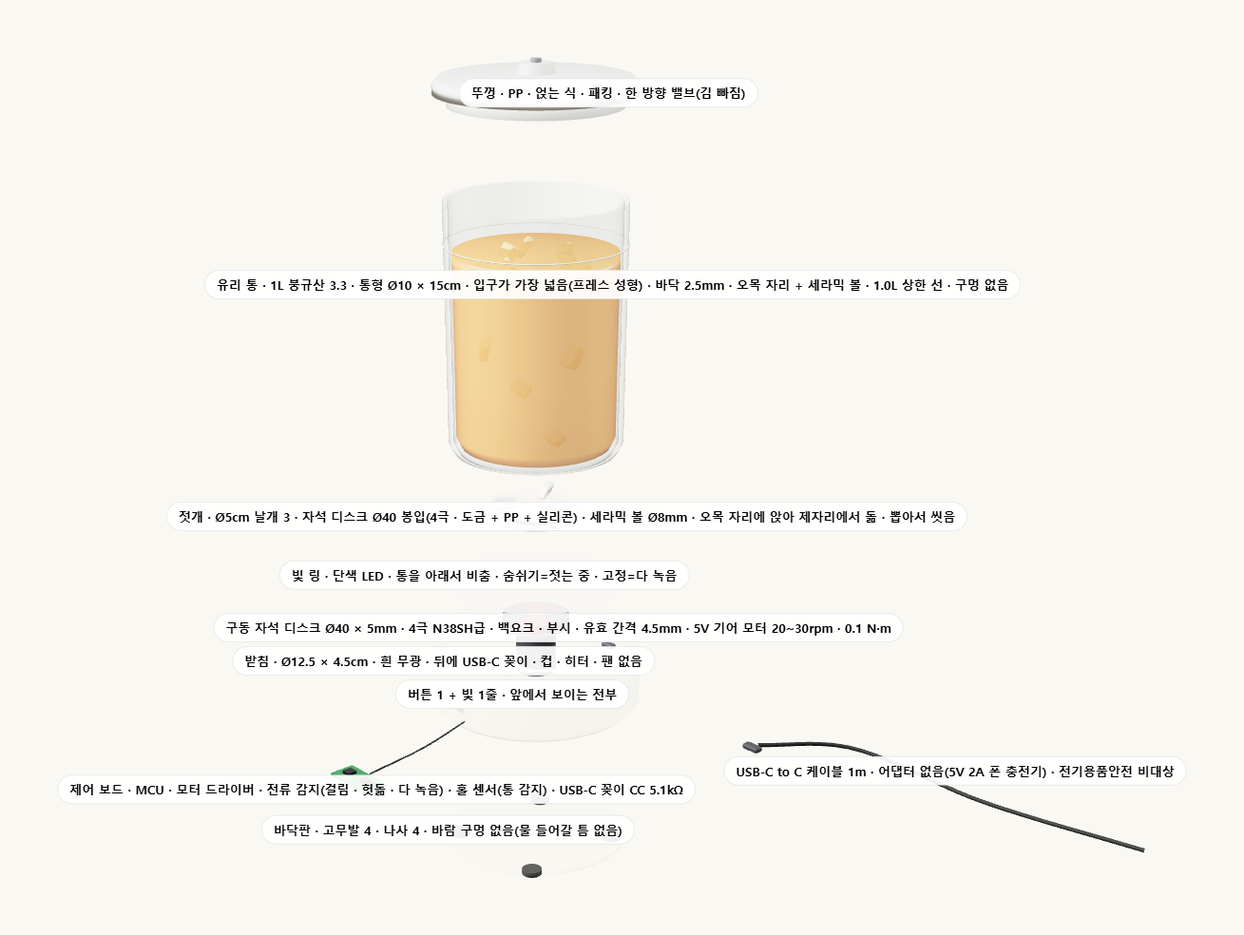
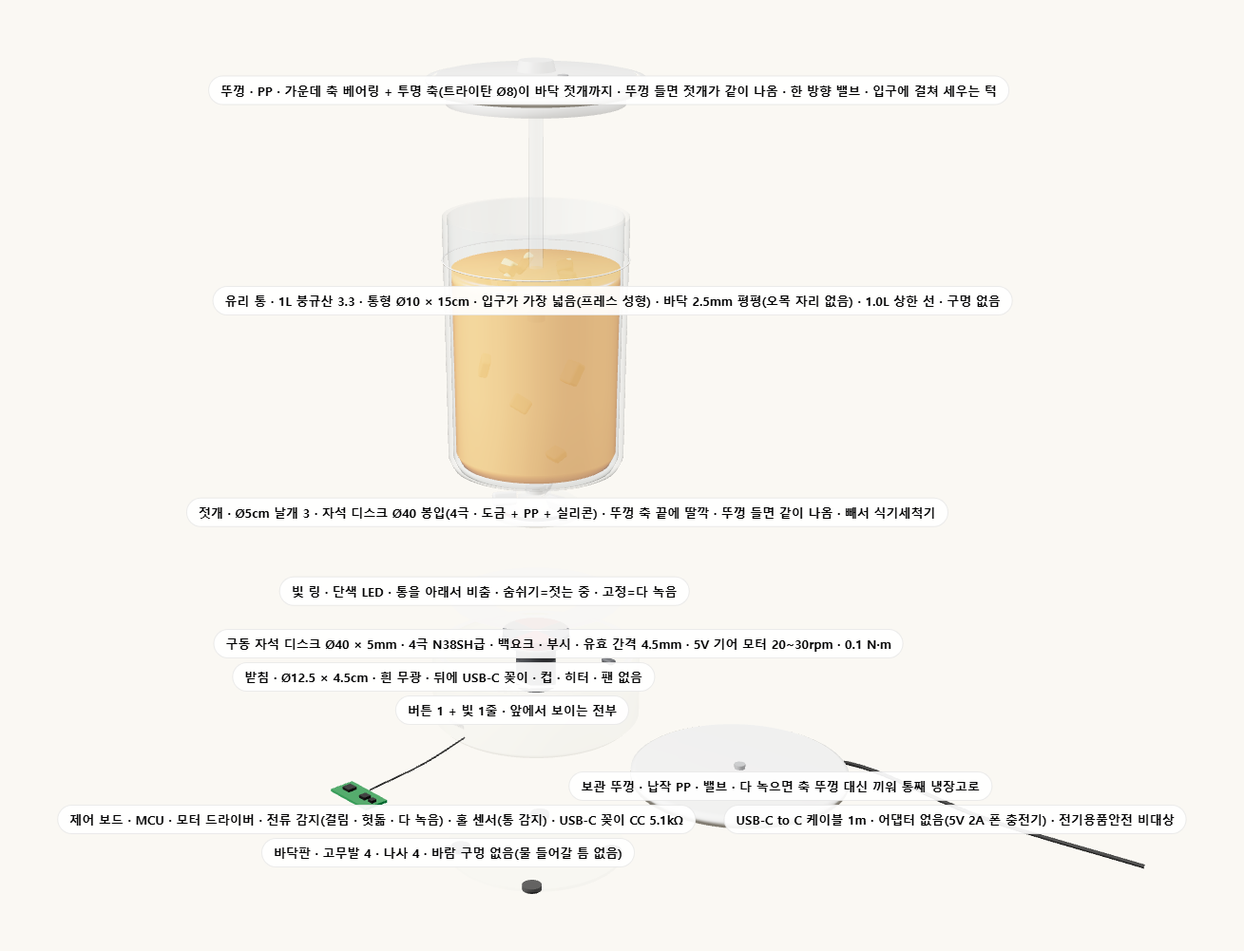
젓개를 뚜껑 축에 매닮(11/17 준보 「뚜껑에 달아 빼기 쉽게 · 세척 쉽게」, 두팔 위임): 3D 라이트 — 뚜껑 가운데 베어링 + 투명 축(트라이탄 Ø8) + 축 끝 딸깍 젓개 · 유리 바닥 평평(오목 자리 · 세라믹 볼 삭제) · 입구에 걸쳐 세우는 턱 · 보관 뚜껑(납작 · 밸브) 부품 11 · 단면도 section-lite.svg · 구조 칸 · 사양 표 · 라이트 2차 상자 문구 · 캡처 7장 재생성

diff --git a/index.html b/index.html
@@ -536,7 +536,7 @@ section h2 .ln{display:block;overflow:hidden}section h2 .ln span{display:block;w
     <p class="note rv" style="border-left:3px solid #1f8a5b;padding-left:10px"><b>읽는 법(11/17):</b> 이 칸의 검토 ①~⑯은 <b>2L · 데우기/식히기 이전 안</b> 기준입니다. 기본안 「라이트」(1L · 젓기만)는 자석 토크 필요치가 0.5 → 0.1 N·m, 유리 바닥 창은 같고, 열 · 결로 · 펠티어 · 히터 항목은 해당 없음이라 <b>모두 더 여유 있는 쪽</b>입니다. 1L 전용 수치는 1주차 벤치 뒤 갱신합니다(<a href="#lite2">라이트 검토</a>). 단면도와 3D는 라이트 A 기준으로 다시 그렸고, 2L 단면도는 접힌 칸에 있습니다.</p>
     <p class="lead2 rv">그림이 예쁜 것과 기계가 도는 것은 다릅니다. 힘 · 열 · 물 · 유리 · 안전을 하나씩 숫자로 따졌습니다. 아래 값은 설계 계산이며 <b>1단계 벤치에서 실측으로 바꿉니다.</b> 1차 검토(①~⑩) 뒤 사용 기간별 불량을 막는 보완안을 냈고, 그 보완안을 다시 의심해 <b>자석 · 젓기 · 열 · 유리 네 가지를 시뮬레이션으로 반복</b>했습니다(⑪~⑯: 공차 몬테카를로 5,000회 · 젓기 무작위 600회 · 1년 8개 달 열 계산). 바뀐 것 다섯: <b>① 자석 = 다극 링 1개 Ø70 · 간격 5.5mm</b> ② <b>유리 바닥 = 오목 자리 + 세라믹 볼</b> ③ <b>헛돎 판정 = 토크 방향 뒤집힘</b> ④ <b>결로 기준 = 컵 밀봉 + 유리 벽</b>, 여름 약속은 실온 −3~5°C ⑤ <b>스러스트 베어링 · 온도 퓨즈 · 통 감지 방식</b>. <b>11/17: 식히기(펠티어)를 기본형에서 빼서, 아래 표의 결로 · 극 전환 · 식혀 두기 줄은 「프로」 검토용으로만 남습니다.</b></p>
     <div class="duo rv" style="margin-top:24px"><div class="ph tilt" style="aspect-ratio:3/2"><img src="img/photo_cutaway.jpg" alt="과일청 메이커 단면 컨셉 이미지 · 유리 바닥 돌기 · 실리콘 교반 날개(자석 6개) · 하부 자석 디스크 · 슬림 기어모터 · 알루미늄 컵 · 펠티어 모듈"><span class="mono">04 / 단면 컨셉 (AI 이미지 · 2L 이전 안 · 비례 확인용)</span></div><div class="box" style="margin-top:0"><h3>신박한 점 하나 — 통에 구멍 없이 자석으로 젓습니다</h3><ul><li>유리 통 바닥에는 구멍·축·실링이 <b>없습니다.</b> 그래서 새지 않고, 통째 들어 냉장고로 갑니다.</li><li>바닥 가운데 오목 자리에 <b>실리콘 젓개(자석 디스크 Ø40 봉입 · 세라믹 볼 받침)</b>를 얹고, 유리 너머(유효 간격 4.5mm) 아래의 <b>자석 디스크</b>가 돌립니다(2L 이전 안은 링 자석 Ø70 · 5.5mm).</li><li>씻을 것은 뚜껑·유리 통·젓개 셋. 젓개는 뽑아서 식기세척기에 넣습니다. 축이 있는 블렌더·제빵기 통과 다른 점입니다.</li><li>힘이 모자라면(라이트 벤치 0.1 N·m 미달) 그때 바닥 축 직결로 바꿉니다 — 지금은 자석이 기본안입니다.</li></ul></div></div>
-    <div class="figure rv"><img src="img/section-lite.svg" alt="라이트 A 단면도 · 1L 유리 통 바닥과 받침 가운데 · 젓개 · 자석 디스크 Ø40 · 5V 기어 모터 · 보드 · USB-C 꽂이"><small>단면 · 라이트 A(1L) · 15개 부품의 자리와 치수. 가운데는 <b>오목 자리 + 세라믹 볼</b>, 젓개 속은 <b>자석 디스크 Ø40(4극)</b>, 아래는 <b>디스크 + 부시 + 5V 기어 모터</b>. 컵 · 히터 · 펠티어 · 팬 없음. 축척 아님.</small></div>
+    <div class="figure rv"><img src="img/section-lite.svg" alt="라이트 A 단면도 · 1L 유리 통 바닥과 받침 가운데 · 젓개 · 자석 디스크 Ø40 · 5V 기어 모터 · 보드 · USB-C 꽂이"><small>단면 · 라이트 A(1L) · 15개 부품의 자리와 치수. 가운데는 <b>뚜껑에서 내려온 투명 축 + 딸깍 젓개</b>(바닥 평평), 젓개 속은 <b>자석 디스크 Ø40(4극)</b>, 아래는 <b>디스크 + 부시 + 5V 기어 모터</b>. 컵 · 히터 · 펠티어 · 팬 없음. 축척 아님.</small></div>
     <details class="prev"><summary>이전 안 · 2L 단면도(펠티어 · 알루미늄 컵 · 팬 · 링 자석 Ø70 포함 · 비교용)</summary><div class="figure" style="margin-top:0"><img src="img/section.svg" alt="통 바닥과 받침 가운데 단면도 · 유리 돌기 · 젓개 · 자석 원판 · 모터 · 펠티어 · 팬 · 결로 물받이"><small>단면 · 16개 부품의 자리와 치수(2차 검토 반영 이름표). 가운데는 <b>오목 자리 + 세라믹 볼</b>, 젓개 속은 <b>링 자석 1개</b>, 구동 원판 아래 스러스트 베어링(⑤ · ⑧ · ⑪). 축척 아님.</small></div></details>
     <table class="pl rv">
       <tr><th class="l" style="width:17%">검토 항목</th><th class="l" style="width:38%">계산 · 근거</th><th class="l" style="width:33%">결론 · 설계 반영</th><th>판정</th></tr>
@@ -576,7 +576,7 @@ section h2 .ln{display:block;overflow:hidden}section h2 .ln span{display:block;w
     <p><span data-xv-lite="1">낮은 흰 받침(높이 4.5cm) 위에 1L 유리 통이 바로 앉습니다 — 알루미늄 컵이 없습니다. 자리 바닥의 단색 LED와 통 둘레 빛 테가 통을 아래에서 비춰 청 색이 그대로 보입니다. 아래 단추로 <b>라이트 A(통형) · C(넓적)</b> · 청 색 · 나무 안을 바꾸고, 「이전 안 2L」 단추로 항아리 시안도 볼 수 있습니다.</span><span data-xv-prev="1" hidden>2L 이전 안: 낮은 흰 받침(높이 5cm) 안에 알루미늄 컵이 있고, 거기에 항아리형 유리 통이 앉습니다. 통 둘레 빛 테와 컵 바닥 RGB LED 링이 품목 색으로 통을 아래에서 비춥니다.</span> 스크롤을 내리면 날이 밝고 부품별로 분해됩니다.</p></div>
       <div class="xv-step"><div class="kicker">구조 · 뒷모습</div><h2><span data-xv-lite="1">뒤에는 USB-C 꽂이 하나.</span><span data-xv-prev="1" hidden>열과 선은 뒤로.</span></h2><p><span data-xv-lite="1">뒷면에는 USB-C 꽂이 하나뿐입니다. 팬 · 배기 슬롯 · 어댑터가 없어 바람길이 없습니다. 폰 충전기(5V 2A 이상)에 C-to-C 케이블로 꽂습니다. 앞에서는 버튼 하나와 빛 한 줄만 보입니다.</span><span data-xv-prev="1" hidden>2L 이전 안: 뒷면 슬롯으로 바람이 나갑니다. 바람은 바닥판 슬롯으로 들어와 방열판을 지나 뒤로 나갑니다. 어댑터 선도 뒤 아래로. 앞에서는 아무것도 안 보입니다.</span></p></div>
       <div class="xv-step"><div class="kicker">구조 · 속</div><h2><span data-xv-lite="1">가운데는 자석뿐, 열은 없습니다.</span><span data-xv-prev="1" hidden>가운데는 자석, 둘레는 히터.</span></h2><p><span data-xv-lite="1">통 자리 바닥 바로 아래 자석 디스크 Ø40(4극)가 유효 간격 4.5mm(유리 2.5 + 젓개 덮개 + 띄움 + 틈)로 유리 너머 젓개를 돌립니다. 젓개는 통 바닥 가운데 오목 자리에 세라믹 볼로 얹혀 제자리에서만 돌고, 통에 구멍이 없습니다. 자석이 당기는 힘(약 8N)은 부시가 받습니다. 모터는 5V 기어 모터 20~30rpm, 걸림 · 헛돎 · 다 녹음은 모터 전류로 판정합니다. 히터 · 컵 · 펠티어 · 팬은 없습니다.</span><span data-xv-prev="1" hidden>2L 이전 안: 알루미늄 컵 가운데 Ø76mm는 뚫려 있어 유리 바닥(약 2.5mm)만 남고, 그 바로 아래 다극 링 자석 원판(Ø70)이 유효 간격 5.5mm로 유리 너머 젓개를 돌립니다. 자석끼리 당기는 힘은 원판 아래 스러스트 베어링이 받습니다. 컵 바깥 펠티어가 컵을 데우거나 식히고, 주황색 선은 바람길입니다.</span></p></div>
-      <div class="xv-step"><div class="kicker">구조 · 분해</div><h2><span data-xv-lite="1">부품 10개, 씻는 것은 셋.</span><span data-xv-prev="1" hidden>부품 14개, 씻는 것은 셋.</span></h2><p><span data-xv-lite="1">뚜껑 · 유리 통 · 젓개를 들어서 빼 씻습니다(통·젓개는 식기세척기). 빛 링 · 구동 자석 디스크와 모터 · 보드 · 바닥판은 받침에 남습니다. 센서는 통 감지 홀 센서와 모터 전류 감지뿐입니다. 전원은 USB-C 5V(어댑터 없음 · C-to-C 케이블 1m 동봉).</span><span data-xv-prev="1" hidden>2L 이전 안: 컵·빛 링·펠티어·방열판·팬·구동 자석 원판과 모터·보드·바닥판은 받침에 남습니다. 센서는 NTC(컵) + 통 감지 누름 핀 · 홀 센서 + 72°C 온도 퓨즈. 전원은 12V 외장 어댑터.</span></p></div>
+      <div class="xv-step"><div class="kicker">구조 · 분해</div><h2><span data-xv-lite="1">부품 11개, 씻는 것은 셋 — 뚜껑을 들면 젓개가 따라 나옵니다.</span><span data-xv-prev="1" hidden>부품 14개, 씻는 것은 셋.</span></h2><p><span data-xv-lite="1">뚜껑을 들면 가운데 투명 축(트라이탄 Ø8)에 달린 젓개가 같이 올라옵니다 — 다 된 청 속에 손을 넣을 일이 없습니다. 젓개는 축 끝에서 딸깍 빼 식기세척기에 넣고, 통은 바닥이 평평해(오목 자리 · 세라믹 볼 없음) 손이 다 닿습니다. 다 녹으면 납작한 보관 뚜껑(밸브)으로 바꿔 통째 냉장고로 옮깁니다. 빛 링 · 구동 자석 디스크와 모터 · 보드 · 바닥판은 받침에 남습니다. 센서는 통 감지 홀 센서와 모터 전류 감지뿐입니다. 전원은 USB-C 5V(어댑터 없음 · C-to-C 케이블 1m 동봉).</span><span data-xv-prev="1" hidden>2L 이전 안: 컵·빛 링·펠티어·방열판·팬·구동 자석 원판과 모터·보드·바닥판은 받침에 남습니다. 센서는 NTC(컵) + 통 감지 누름 핀 · 홀 센서 + 72°C 온도 퓨즈. 전원은 12V 외장 어댑터.</span></p></div>
     </div>
     <div class="xv-stage"><canvas id="xv-canvas" aria-label="청담 3D · 시안 · 청 색 · 분해도"></canvas><div id="xv-labels"></div>
       <div class="xv-colors" role="group" aria-label="시안과 청 색">
@@ -599,14 +599,14 @@ section h2 .ln{display:block;overflow:hidden}section h2 .ln span{display:block;w
         <tr><td class="l">소비전력</td><td class="l"><b>라이트: 평균 1~2W · 걸릴 때 최대 5W · 대기 ≤0.3W</b> <span class="tag est">추정</span> — 이전 안 데우기만: 최대 약 24W(히터 20W + 모터)</td></tr>
         <tr><td class="l">히터</td><td class="l"><b>라이트: 없음</b>(11/17 2차 — 데우기 효과 1.3~1.5배 · 효모 · 향 손실로 뺌, <a href="#lite2">검토</a>) — 이전 안 데우기만: 실리콘 러버 히터 20W(12V)를 알루미늄 컵 아래에 붙여 데우기만 함 · 식히기 없음(11/17 결정 — 펠티어 · 방열판 · 팬 · H브리지 뺌) · PWM 연속 제어 · NTC 2개(컵 · 히터) · 과열 차단 45°C(소프트웨어) + 컵 72°C 온도 퓨즈(소프트웨어와 따로)</td></tr>
         <tr><td class="l">구동 모터</td><td class="l"><b>라이트: 5V DC 기어 모터(브러시 또는 소형 BLDC, ODM 견적으로 결정) · 20~30rpm · 정격 0.1 N·m · 전류 감지로 걸림 · 헛돎 · 완료 판정 · 부시 베어링(자석 당김 약 8N)</b> — 이전 안(2L): 12V 납작 기어드 <b>BLDC(확정 · 브러시 마모 없음)</b> · 출력 10~60rpm · 정격 0.6 N·m · 전류 감지 2가지: <b>걸림</b>(≥1.2A 2초) → 정지 → 역회전 3초 → 재시작, 3회 실패면 알림 · <b>헛돎</b>(젓개가 미끄러져 커플링 토크 방향이 짧은 시간에 2번 이상 뒤집힘 — 전류가 떨어지고 출렁임) → 2초 멈춤 → 10rpm부터 다시 출발 → 3회 실패면 빛 깜빡임 + 부저 알림 · 원판 아래 스러스트 볼 베어링(자석 당김 약 40N)</td></tr>
-        <tr><td class="l">자석 커플링</td><td class="l"><b>라이트: 자석 디스크 Ø40 × 5mm 한 쌍(4극 · N38SH급) · 유효 간격 4.5mm · 전달 토크 목표 0.1 N·m(계산 0.18~0.22) · 젓개 쪽은 도금 + PP 봉입 + 실리콘 오버몰드(2L 안과 같은 방식)</b> — 이전 안(2L): 다극 착자 링 자석 1개(6극 · N48SH급) Ø70 × 8mm 한 쌍 + 백요크 1mm(<b>아연 도금 철 또는 SUS430</b>, 결로 녹 방지) · 유효 간격 <b>5.5mm</b>(유리 바닥 창 2.5 + 덮개 1.0 + 띄움 0.5 + 틈 1.5) · 설계 전달 토크 목표 0.5 N·m(계산 0.62~0.67, 몬테카를로 5,000회 하위 5%) · 최고 사용 온도 150°C · 구동 원판 아래 <b>스러스트 볼 베어링</b>(자석 당김 약 40N) · 젓개 쪽 링 자석은 <b>Ni-Cu-Ni + 에폭시 도금</b> → PP로 한 번에 감싸 사출(이음매 없음) → LSR 오버몰드, <b>수압 기밀 전수 검사</b> · FEM 해석 후 확정</td></tr>
+        <tr><td class="l">자석 커플링</td><td class="l"><b>라이트: 자석 디스크 Ø40 × 5mm 한 쌍(4극 · N38SH급) · 유효 간격 4.5mm · 전달 토크 목표 0.1 N·m(계산 0.18~0.22) · 젓개 쪽은 도금 + PP 봉입 + 실리콘 오버몰드(2L 안과 같은 방식) · 젓개는 뚜껑 가운데 투명 축(트라이탄 Ø8) 끝에 딸깍 — 축이 가운데를 잡아 주어 오목 자리 · 세라믹 볼 불필요, 뚜껑을 들면 같이 나옴 · 보관 뚜껑(납작 · 밸브) 별도</b> — 이전 안(2L): 다극 착자 링 자석 1개(6극 · N48SH급) Ø70 × 8mm 한 쌍 + 백요크 1mm(<b>아연 도금 철 또는 SUS430</b>, 결로 녹 방지) · 유효 간격 <b>5.5mm</b>(유리 바닥 창 2.5 + 덮개 1.0 + 띄움 0.5 + 틈 1.5) · 설계 전달 토크 목표 0.5 N·m(계산 0.62~0.67, 몬테카를로 5,000회 하위 5%) · 최고 사용 온도 150°C · 구동 원판 아래 <b>스러스트 볼 베어링</b>(자석 당김 약 40N) · 젓개 쪽 링 자석은 <b>Ni-Cu-Ni + 에폭시 도금</b> → PP로 한 번에 감싸 사출(이음매 없음) → LSR 오버몰드, <b>수압 기밀 전수 검사</b> · FEM 해석 후 확정</td></tr>
         <tr><td class="l">센서 · 표시</td><td class="l">NTC 10kΩ 2개(컵 · 방열판) + 보드 온습도 센서(이슬점) · 통 감지 <b>누름 핀(실리콘 부츠) + 홀 센서</b>(받침 테두리 · 구동 자석과 30mm↑ · 멈춘 자장만 읽음, 수지 봉입) · 모터 전류(걸림 ↑) + 커플링 토크 방향(헛돎 — 짧은 시간에 2번 이상 뒤집힘) · RGB LED 링 12구 + 앞면 빛 1줄 · 부저 · 버튼 1(짧게 = 품목 · 길게 = 끔)</td></tr>
         <tr><td class="l">제어</td><td class="l">8비트 MCU · 품목 묶음 3 × (첫 쉬는 시간 · 젓기 간격 · 완료 판정 문턱) 표 · 완료 = 전류 평탄화 + 품목별 최소 시간 · 펌웨어 갱신 없음(앱 없음)</td></tr>
       </table></div>
       <div><h3>열 · 용량 · 재질 · 환경</h3><table class="pl" style="margin-top:6px">
         <tr><td class="l">온도 범위</td><td class="l"><b>라이트: 온도 제어 없음(실온 10~35°C에서 사용 · 35°C↑ 주방은 설명서에 「서늘한 곳」 안내)</b> — 이전 안: 녹이기 25~30°C(품목별 고정) · 다 녹으면 히터 끔 + 빛 · 부저로 「냉장고로 옮기세요」 알림(식혀 두기 없음 — 결로 · 물받이 문제가 함께 없어짐) · 사용 환경 실온 10~35°C · 제어 정밀도 ±1.5°C <span class="tag est">추정</span></td></tr>
         <tr><td class="l">용량 · 크기 · 무게</td><td class="l"><b>라이트: 유리 통 총 1.2L · 유효 1.0L(과일 500g + 설탕 500g) · 내경 Ø100 × 150mm · 바깥 Ø12.5 × 21.5cm · 본체 약 0.35kg + 통 0.45kg + 뚜껑 0.1kg</b> — 이전 안: 유리 통 총 2.0L · 유효 1.6L(과일 800g + 설탕 800g) · 시안 A 바깥 Ø19 × 23cm · 받침 5~6cm · 본체 약 1.1kg + 통 0.9kg + 뚜껑 0.15kg <span class="tag est">추정</span></td></tr>
-        <tr><td class="l">유리 통</td><td class="l"><b>라이트도 붕규산 3.3 · 1L · 바닥 2.5mm · 오목 자리 유지(5.9만을 위해 소다석회로 바꾸지 않음 — 열탕 소독이 빠짐)</b> · 붕규산 3.3 확정(열충격 ΔT 160°C 이상 — 집에서 끓는 물 소독이 흔해 강화 소다석회 ΔT 40~60°C로는 「열탕 뒤 바로 찬 컵」을 못 견딤) · 바닥 3mm(자석 창 2.5mm) · 바닥 가운데 <b>오목 자리(반구 · 깊이 4mm) + 젓개 세라믹 볼 받침</b>(돌기 뿌리 응력 · 허브 마모 가루 제거) · 통이 40°C↑면 식히기 보류 · 서냉(어닐링) + <b>전수 편광 응력 검사</b> · 눈금 2줄 + 1.6L 상한(거품 여유) 선 · 식기세척기 · 통 단품 판매</td></tr>
+        <tr><td class="l">유리 통</td><td class="l"><b>라이트도 붕규산 3.3 · 1L · 바닥 2.5mm 평평(축 젓개라 오목 자리 없음 → 유리 금형 단순)(5.9만을 위해 소다석회로 바꾸지 않음 — 열탕 소독이 빠짐)</b> · 붕규산 3.3 확정(열충격 ΔT 160°C 이상 — 집에서 끓는 물 소독이 흔해 강화 소다석회 ΔT 40~60°C로는 「열탕 뒤 바로 찬 컵」을 못 견딤) · 바닥 3mm(자석 창 2.5mm) · 바닥 가운데 <b>오목 자리(반구 · 깊이 4mm) + 젓개 세라믹 볼 받침</b>(돌기 뿌리 응력 · 허브 마모 가루 제거) · 통이 40°C↑면 식히기 보류 · 서냉(어닐링) + <b>전수 편광 응력 검사</b> · 눈금 2줄 + 1.6L 상한(거품 여유) 선 · 식기세척기 · 통 단품 판매</td></tr>
         <tr><td class="l">식품 접촉 부품</td><td class="l">유리 · 젓개 LSR 실리콘(백금 경화 · 2차 후경화 4h/200°C, 링 자석은 도금 + PP 일체 사출 안) · 지르코니아 세라믹 볼(Ø8mm · <b>젓개 허브에 인서트 사출로 박아 빠지지 않음</b> — 따로 떨어지는 작은 부품 없음) · 뚜껑 PP + 실리콘 패킹 + <b>분리해 씻는</b> 실리콘 우산 밸브(열림 1~3 kPa · 뚜껑 최고점 · 방울 받이 턱) · 모두 식약처 기구·용기 기준 용출 시험<sup class="f">14</sup> · 젓개·패킹·밸브는 <b>소모품 세트</b>(2~3년 교체)</td></tr>
         <tr><td class="l">본체 재질</td><td class="l">받침 <b>PC/ABS + UV 안정제</b> 무광(황변 방지 · 틈 최소화) · 알루미늄 컵 A1050 2mm 경질 아노다이징 15μm 이상 + 윗면 식품용 실리콘 막 0.3mm(유리 곡률에 맞춤) · 컵 둘레 EPDM 밀봉 링 · 컵 구멍 Ø76 · 빛 테 유백 PC · 바닥판 PP + 고무발 4 + <b>분리 청소 흡기 그릴</b> · 볼베어링 팬 · 어댑터 105°C 장수명 콘덴서 · 전원선 DC 플러그 목 굽힘 보강 · 잠금형 DC 잭</td></tr>
         <tr><td class="l">소음 · 환경</td><td class="l">≤30 dB(A) 1m(팬 저속) · 사용 환경 10~35°C · 습도 ≤80% · 보드 온습도 센서로 이슬점 계산 → <b>유리 벽(≈청) ≥ max(18°C, 이슬점 +1°C)</b>(컵은 밀봉 링 안) · 결로·흘림 물길: 컵 둘레 물받이 홈 → 뒤 배수구 → <b>빼서 비우는 바닥 트레이(약 50ml)</b> · 보드는 받침 뒤 윗쪽에 세워 물길과 분리 + 컨포멀 코팅 · 받침 IPX1 상당</td></tr>
@@ -718,7 +718,7 @@ section h2 .ln{display:block;overflow:hidden}section h2 .ln span{display:block;w
     </div>
     <div class="two" style="margin-top:10px">
       <div><h4>③ 1L 유리 — 사양</h4><ul>
-        <li>붕규산 1L(내경 Ø100 × 150mm, 전체 약 1.2L, 1.0L 상한 선) · 바닥 오목 자리 유지 · 열탕 소독 가능. 레몬 4개 또는 유자 3~4개 + 설탕 500g이 한 통(완성 약 850ml, 2인 2~3주 분량).</li>
+        <li>붕규산 1L(내경 Ø100 × 150mm, 전체 약 1.2L, 1.0L 상한 선) · 바닥 평평(뚜껑 축 젓개) · 열탕 소독 가능. 레몬 4개 또는 유자 3~4개 + 설탕 500g이 한 통(완성 약 850ml, 2인 2~3주 분량).</li>
         <li>매실 1kg처럼 많이 담그는 집은 통 2개 또는 2L 통(별매)으로. 받침은 1L · 2L 공용 지름으로 설계합니다.</li>
         <li>젓개 Ø40 봉입 자석 + 세라믹 볼 · 뚜껑 PP + 패킹 + 밸브는 그대로(안전 · 가스 빼기).</li>
         <li>크기 약 Ø125 × 215mm(받침 높이 45mm) · 무게 약 0.9kg · 받침은 흰 하나.</li>

diff --git a/explode.js b/explode.js
@@ -320,7 +320,7 @@ function buildLite() {
   const BH = V.baseH, SEAT_D = 0.06, SEAT_Y = BH - SEAT_D;      // 통이 앉는 얕은 자리 6mm(컵 없음)
   const JH = V.jarH, JY = SEAT_Y + 0.004;                        // 통 바닥 높이
   const GT = 0.025, GAP = 0.008;                                 // 유리 바닥 2.5mm · 그림 틈 — 실제 유효 간격 4.5mm(유리 2.5 + 덮개 1 + 띄움 0.5 + 틈 0.5)
-  const MR = 0.20, BALLR = 0.04, DIMPLE = 0.04;                  // 자석 디스크 Ø40(양쪽 같음) · 세라믹 볼 Ø8mm · 오목 자리 4mm
+  const MR = 0.20, STEMR = 0.04;                                 // 자석 디스크 Ø40(양쪽 같음) · 뚜껑 축 Ø8mm(투명 트라이탄) — 오목 자리 · 세라믹 볼 없음(바닥 평평)
   const VR = V.jar === 'lwide' ? 0.33 : 0.27;                    // 날개 Ø6.6 / Ø5.4cm
   const JR = V.mouthR;                                           // 통 바깥 반지름(입구가 가장 넓음)
   M.body.color.set(V.baseColor); M.body.roughness = V.baseRough; M.body.clearcoat = V.baseClear;
@@ -340,14 +340,13 @@ function buildLite() {
     const ring = new THREE.Mesh(new THREE.RingGeometry(MR + 0.07, JR - 0.02, 64), M.ledRing); ring.rotation.x = -Math.PI / 2; ring.position.y = SEAT_Y + 0.004; g.add(ring);
     part('빛 링 · 단색 LED · 통을 아래서 비춤 · 숨쉬기=젓는 중 · 고정=다 녹음', g, [0, 0.38, 0], new THREE.Vector3(-0.3, SEAT_Y, 0.15), true);
   }
-  /* 3. 유리 통 — 1L 붕규산 3.3 · 입구가 가장 넓어 프레스 성형 · 바닥 2.5mm · 오목 자리 + 세라믹 볼 · 1.0L 상한 선 */
+  /* 3. 유리 통 — 1L 붕규산 3.3 · 입구가 가장 넓어 프레스 성형 · 바닥 2.5mm 평평(축 젓개라 오목 자리 없음) · 1.0L 상한 선 */
   {
     const g = new THREE.Group(); jarGroup = g;
     const prof = jarProfile(V.jar, JH);
     const outer = lathe(prof, M.glass, 96);
     const innerP = inset(prof, 0.03); innerP[0] = [0, GT];
     g.add(outer, lathe(innerP, M.glass, 96));
-    const dimple = new THREE.Mesh(new THREE.TorusGeometry(BALLR + 0.015, 0.007, 12, 48), M.glass); dimple.rotation.x = Math.PI / 2; dimple.position.y = GT + 0.004; g.add(dimple);
     const lineY = JH * (1.0 / 1.2);   // 1.0L 상한 선(전체 1.2L)
     const line = new THREE.Mesh(new THREE.TorusGeometry(JR + 0.002, 0.004, 8, 96), M.pp); line.rotation.x = Math.PI / 2; line.position.y = lineY; g.add(line);
     const fillY = lineY - 0.08;
@@ -364,29 +363,34 @@ function buildLite() {
       f.position.set(Math.cos(a) * rr, y + 0.03, Math.sin(a) * rr); f.rotation.set(rnd(), rnd() * 3, rnd()); fruitG.add(f);
     }
     g.position.y = JY;
-    part(`유리 통 · 1L 붕규산 3.3 · ${V.jar === 'lwide' ? '넓적 Ø13.5 × 9.5cm' : '통형 Ø10 × 15cm'} · 입구가 가장 넓음(프레스 성형) · 바닥 2.5mm · 오목 자리 + 세라믹 볼 · 1.0L 상한 선 · 구멍 없음`, g, [0, 1.2, 0], new THREE.Vector3(JR + 0.1, JH * 0.75, 0));
+    part(`유리 통 · 1L 붕규산 3.3 · ${V.jar === 'lwide' ? '넓적 Ø13.5 × 9.5cm' : '통형 Ø10 × 15cm'} · 입구가 가장 넓음(프레스 성형) · 바닥 2.5mm 평평(오목 자리 없음) · 1.0L 상한 선 · 구멍 없음`, g, [0, 1.2, 0], new THREE.Vector3(JR + 0.1, JH * 0.75, 0));
   }
-  /* 4. 젓개 — 날개 3 · 자석 디스크 Ø40 봉입(4극 · 도금 + PP + 실리콘) · 세라믹 볼이 오목 자리에 앉아 제자리에서 돎 */
+  /* 4. 젓개 — 날개 3 · 자석 디스크 Ø40 봉입(4극 · 도금 + PP + 실리콘) · 뚜껑 축 끝에 딸깍 끼워 바닥에 닿아 돎 · 빼서 식기세척기 */
   {
     const g = new THREE.Group();
     const body = lathe([[0, 0], [VR, 0], [VR, 0.05], [VR - 0.025, 0.07], [0.1, 0.07], [0.085, 0.13], [0, 0.13]], M.siliconeT, 64); g.add(body);
-    const ball = new THREE.Mesh(new THREE.SphereGeometry(BALLR, 24, 16), M.pp); ball.position.y = 0.01; g.add(ball);
+    const sock = new THREE.Mesh(new THREE.CylinderGeometry(STEMR + 0.02, STEMR + 0.02, 0.05, 20), M.pp); sock.position.y = 0.15; g.add(sock);   // 축 끝 딸깍 소켓
     for (let i = 0; i < 4; i++) { const seg = new THREE.Mesh(new THREE.CylinderGeometry(MR, MR, 0.026, 40, 1, false, i * Math.PI / 2, Math.PI / 2), i % 2 ? M.magnetS : M.magnet); seg.position.y = 0.025; g.add(seg); }   // 4극 디스크
     const ppCap = new THREE.Mesh(new THREE.CylinderGeometry(MR + 0.01, MR + 0.01, 0.012, 40), M.pp); ppCap.position.y = 0.044; g.add(ppCap);
     for (let i = 0; i < 3; i++) { const h = new THREE.Group(); h.rotation.y = i * Math.PI * 2 / 3; const b = new THREE.Mesh(new RoundedBoxGeometry(VR - 0.12, 0.08, 0.05, 2, 0.018), M.silicone); b.position.set((VR + 0.08) / 2 + 0.01, 0.1, 0); b.rotation.x = 0.4; h.add(b); g.add(h); }
-    g.position.y = JY + GT - DIMPLE * 0.6; g.userData.slow = true; spinners.push(g);
-    part(`젓개 · Ø${Math.round(VR * 20)}cm 날개 3 · 자석 디스크 Ø40 봉입(4극 · 도금 + PP + 실리콘) · 세라믹 볼 Ø8mm · 오목 자리에 앉아 제자리에서 돎 · 뽑아서 씻음`, g, [0, 0.8, 0], new THREE.Vector3(VR, 0.07, 0));
+    g.position.y = JY + GT; g.userData.slow = true; spinners.push(g);
+    part(`젓개 · Ø${Math.round(VR * 20)}cm 날개 3 · 자석 디스크 Ø40 봉입(4극 · 도금 + PP + 실리콘) · 뚜껑 축 끝에 딸깍 · 뚜껑 들면 같이 나옴 · 빼서 식기세척기`, g, [0, 0.9, 0], new THREE.Vector3(VR, 0.07, 0));
   }
-  /* 5. 뚜껑 — PP · 얹는 식 · 패킹 · 한 방향 밸브 · 손잡이(나무 안) */
+  /* 5. 뚜껑 — PP · 얹는 식 · 패킹 · 가운데 축 베어링 + 투명 축(트라이탄 Ø8)이 바닥 젓개까지 · 한 방향 밸브(옆) · 손잡이(나무 안) · 뚜껑을 들면 젓개가 같이 나옴 */
   {
     const g = new THREE.Group();
     const r = JR + 0.05;
     const lid = lathe([[0, 0], [r, 0], [r, 0.055], [r - 0.03, 0.09], [0.14, 0.11], [0, 0.11]], M.lid, 72); g.add(lid);
     const skirt = lathe([[JR - 0.05, -0.07], [JR - 0.03, -0.07], [JR - 0.03, 0], [JR - 0.05, 0]], M.silicone, 72); g.add(skirt);
     const knob = new THREE.Mesh(new THREE.CylinderGeometry(0.095, 0.11, 0.06, 32), wood ? M.wood : M.lid); knob.position.y = 0.14; g.add(knob); if (wood) woodMeshes.push(knob);
-    const valve = new THREE.Mesh(new THREE.CylinderGeometry(0.03, 0.03, 0.026, 16), M.valve); valve.position.y = 0.18; g.add(valve);
+    const valve = new THREE.Mesh(new THREE.CylinderGeometry(0.03, 0.03, 0.026, 16), M.valve); valve.position.set(0.22, 0.1, 0); g.add(valve);   // 밸브는 축 옆
+    const stemL = JH - GT - 0.17;                                                                                                             // 뚜껑 밑면 → 젓개 소켓 위
+    const stem = new THREE.Mesh(new THREE.CylinderGeometry(STEMR, STEMR, stemL + 0.08, 20), M.glass); stem.position.y = -stemL / 2 + 0.04; g.add(stem);   // 투명 축(트라이탄)
+    const bear = new THREE.Mesh(new THREE.CylinderGeometry(STEMR + 0.03, STEMR + 0.03, 0.04, 20), M.pp); bear.position.y = -0.02; g.add(bear);          // 축 베어링(뚜껑 밑)
+    const tip = new THREE.Mesh(new THREE.CylinderGeometry(STEMR + 0.012, STEMR + 0.012, 0.05, 20), M.pp); tip.position.y = -stemL + 0.02; g.add(tip);    // 축 끝 딸깍 돌기
+    const rest = lathe([[r, 0.055], [r + 0.03, 0.055], [r + 0.03, 0.075], [r, 0.075]], M.lid, 72); g.add(rest);                                          // 입구에 걸쳐 세우는 턱
     g.position.y = JY + JH;
-    part(`뚜껑 · PP · 얹는 식 · 패킹 · 한 방향 밸브(김 빠짐)${wood ? ' · 나무 손잡이' : ''}`, g, [0, 1.8, 0], new THREE.Vector3(r, 0.07, 0));
+    part(`뚜껑 · PP · 가운데 축 베어링 + 투명 축(트라이탄 Ø8)이 바닥 젓개까지 · 뚜껑 들면 젓개가 같이 나옴 · 한 방향 밸브 · 입구에 걸쳐 세우는 턱${wood ? ' · 나무 손잡이' : ''}`, g, [0, 1.9, 0], new THREE.Vector3(r, 0.07, 0));
   }
   /* 6. 구동 자석 디스크 Ø40 × 5mm + 부시 + 5V 기어 모터 — 자리 바닥 바로 아래 · 유효 간격 4.5mm · 20~30rpm · 0.1 N·m */
   {
@@ -433,6 +437,15 @@ function buildLite() {
     g.add(tube([new THREE.Vector3(0, BH * 0.42, -(V.baseR + 0.1)), new THREE.Vector3(0.3, 0.12, -(V.baseR + 0.6)), new THREE.Vector3(1.2, 0.03, -1.4), new THREE.Vector3(2.2, 0.03, -1.6)], 0.012, M.wireB, 30));
     g.name = 'cable';
     part('USB-C to C 케이블 1m · 어댑터 없음(5V 2A 폰 충전기) · 전기용품안전 비대상', g, [0.9, -0.5, -0.3], new THREE.Vector3(0.9, 0.08, -(V.baseR + 0.9)));
+  }
+  /* 11. 보관 뚜껑 — 납작 PP · 밸브 · 다 녹으면 축 뚜껑 대신 끼워 통째 냉장고로(받침 옆에 놓음 · ?nostorelid) */
+  {
+    const g = new THREE.Group();
+    const r = JR + 0.05;
+    const lid = lathe([[0, 0], [r, 0], [r, 0.045], [r - 0.03, 0.06], [0, 0.06]], M.lid, 72); g.add(lid);
+    const valve = new THREE.Mesh(new THREE.CylinderGeometry(0.03, 0.03, 0.026, 16), M.valve); valve.position.y = 0.07; g.add(valve);
+    g.position.set(V.baseR + r + 0.25, 0, 0.3); g.name = 'storelid';
+    part('보관 뚜껑 · 납작 PP · 밸브 · 다 녹으면 축 뚜껑 대신 끼워 통째 냉장고로', g, [0.5, 0.4, 0], new THREE.Vector3(r * 0.5, 0.06, 0));
   }
   airG = null;   // 바람길 없음(팬 없음)
   glow.position.set(0, SEAT_Y + 0.1, 0); glowUp.position.set(0, JY + JH * 0.5, 0);
